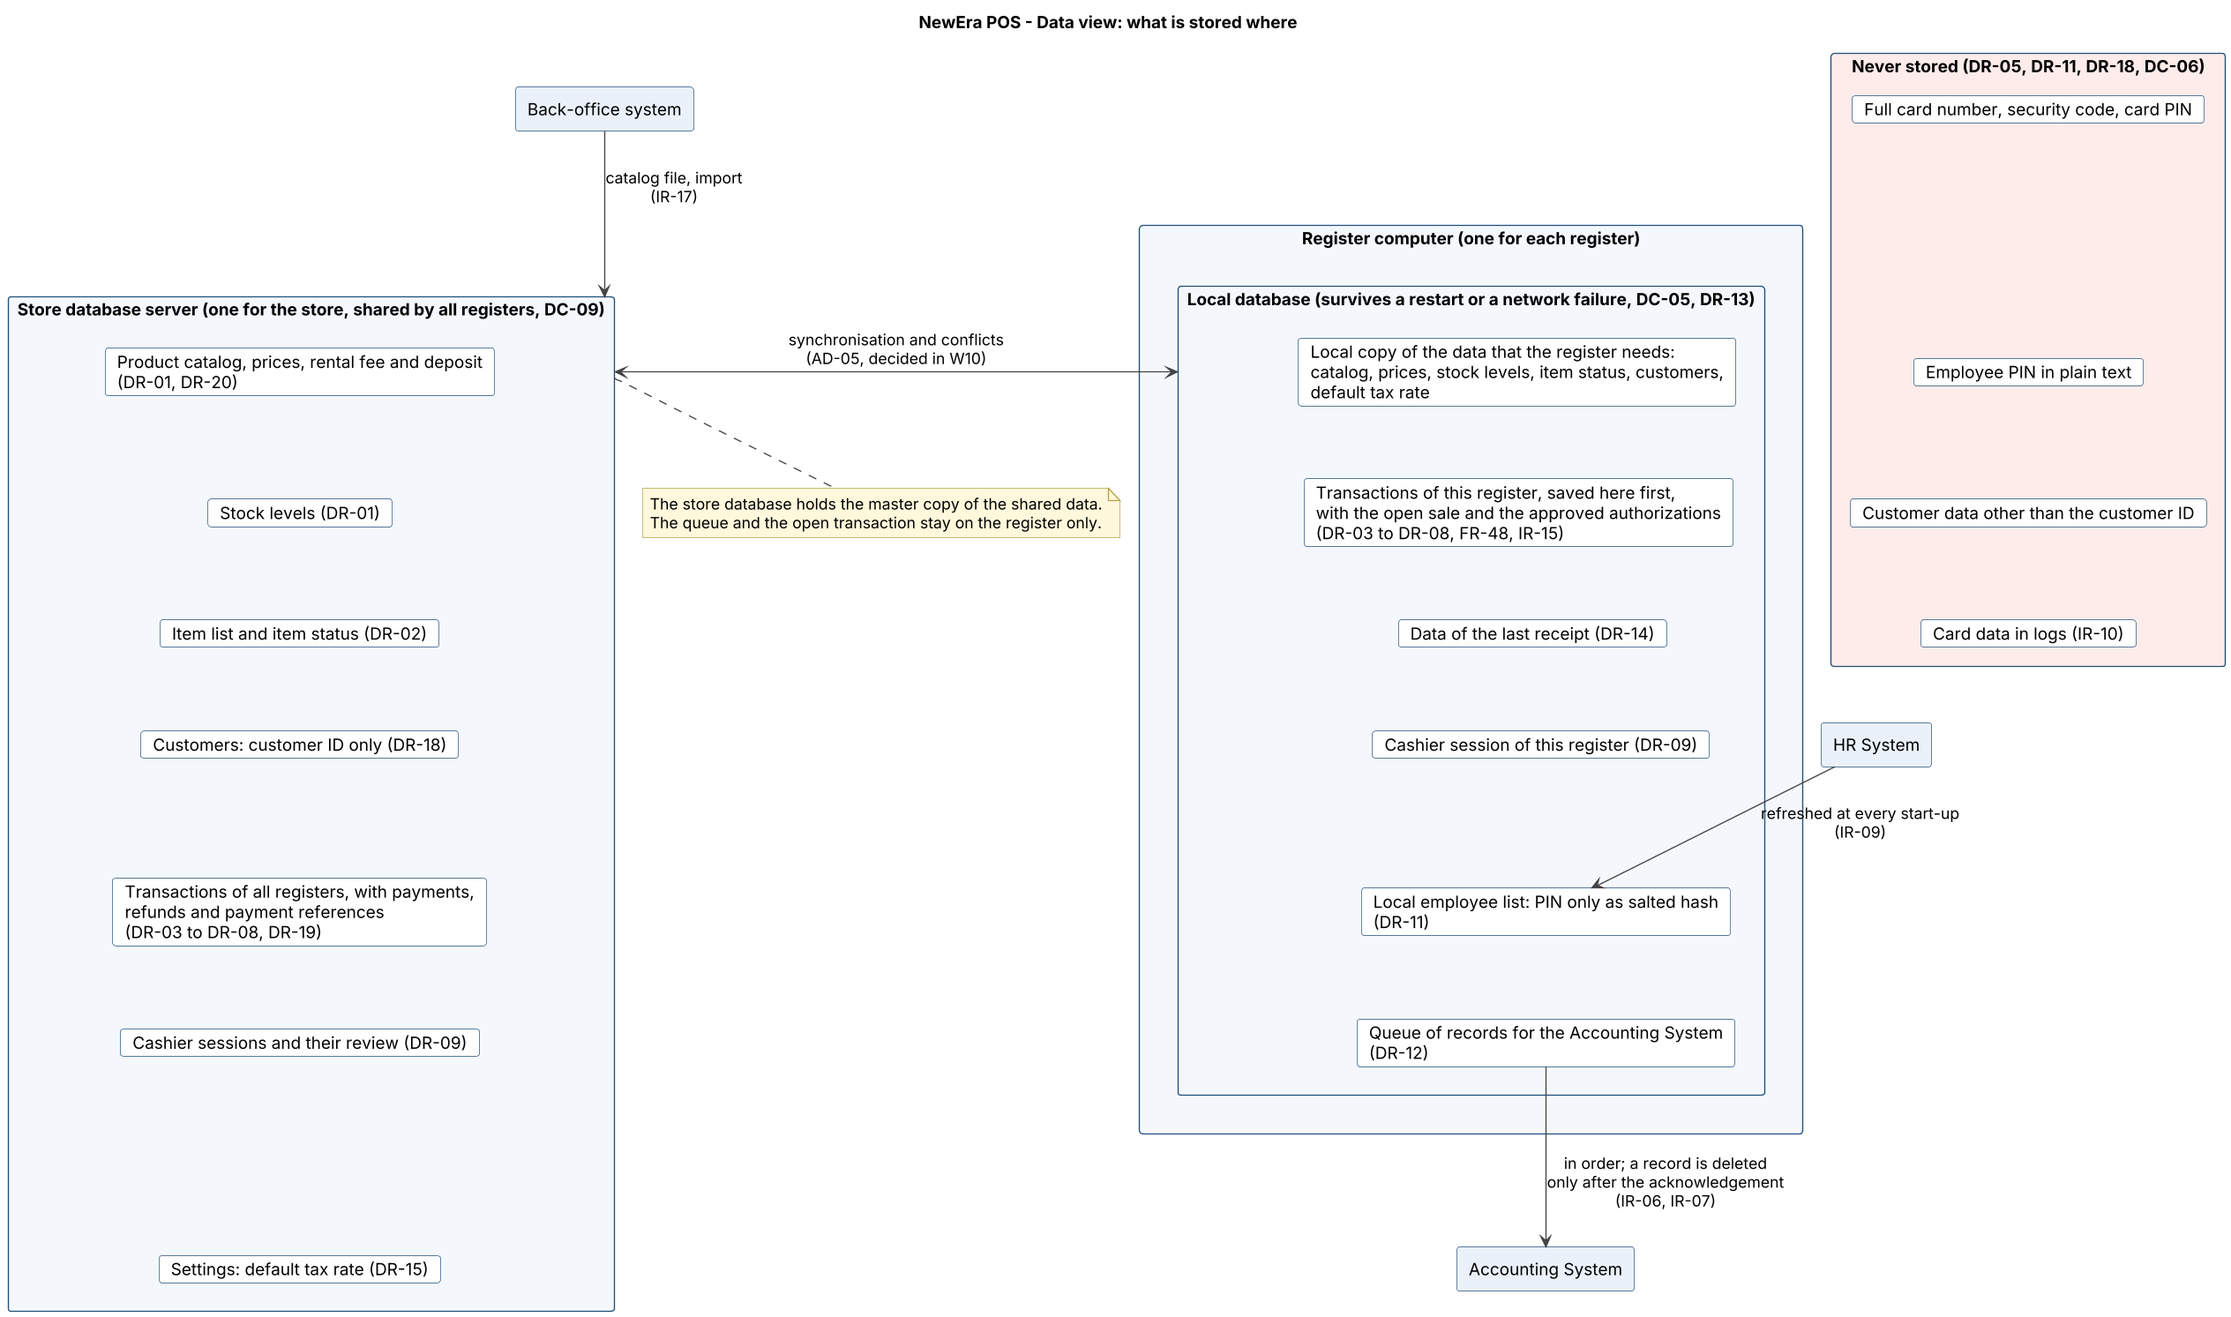
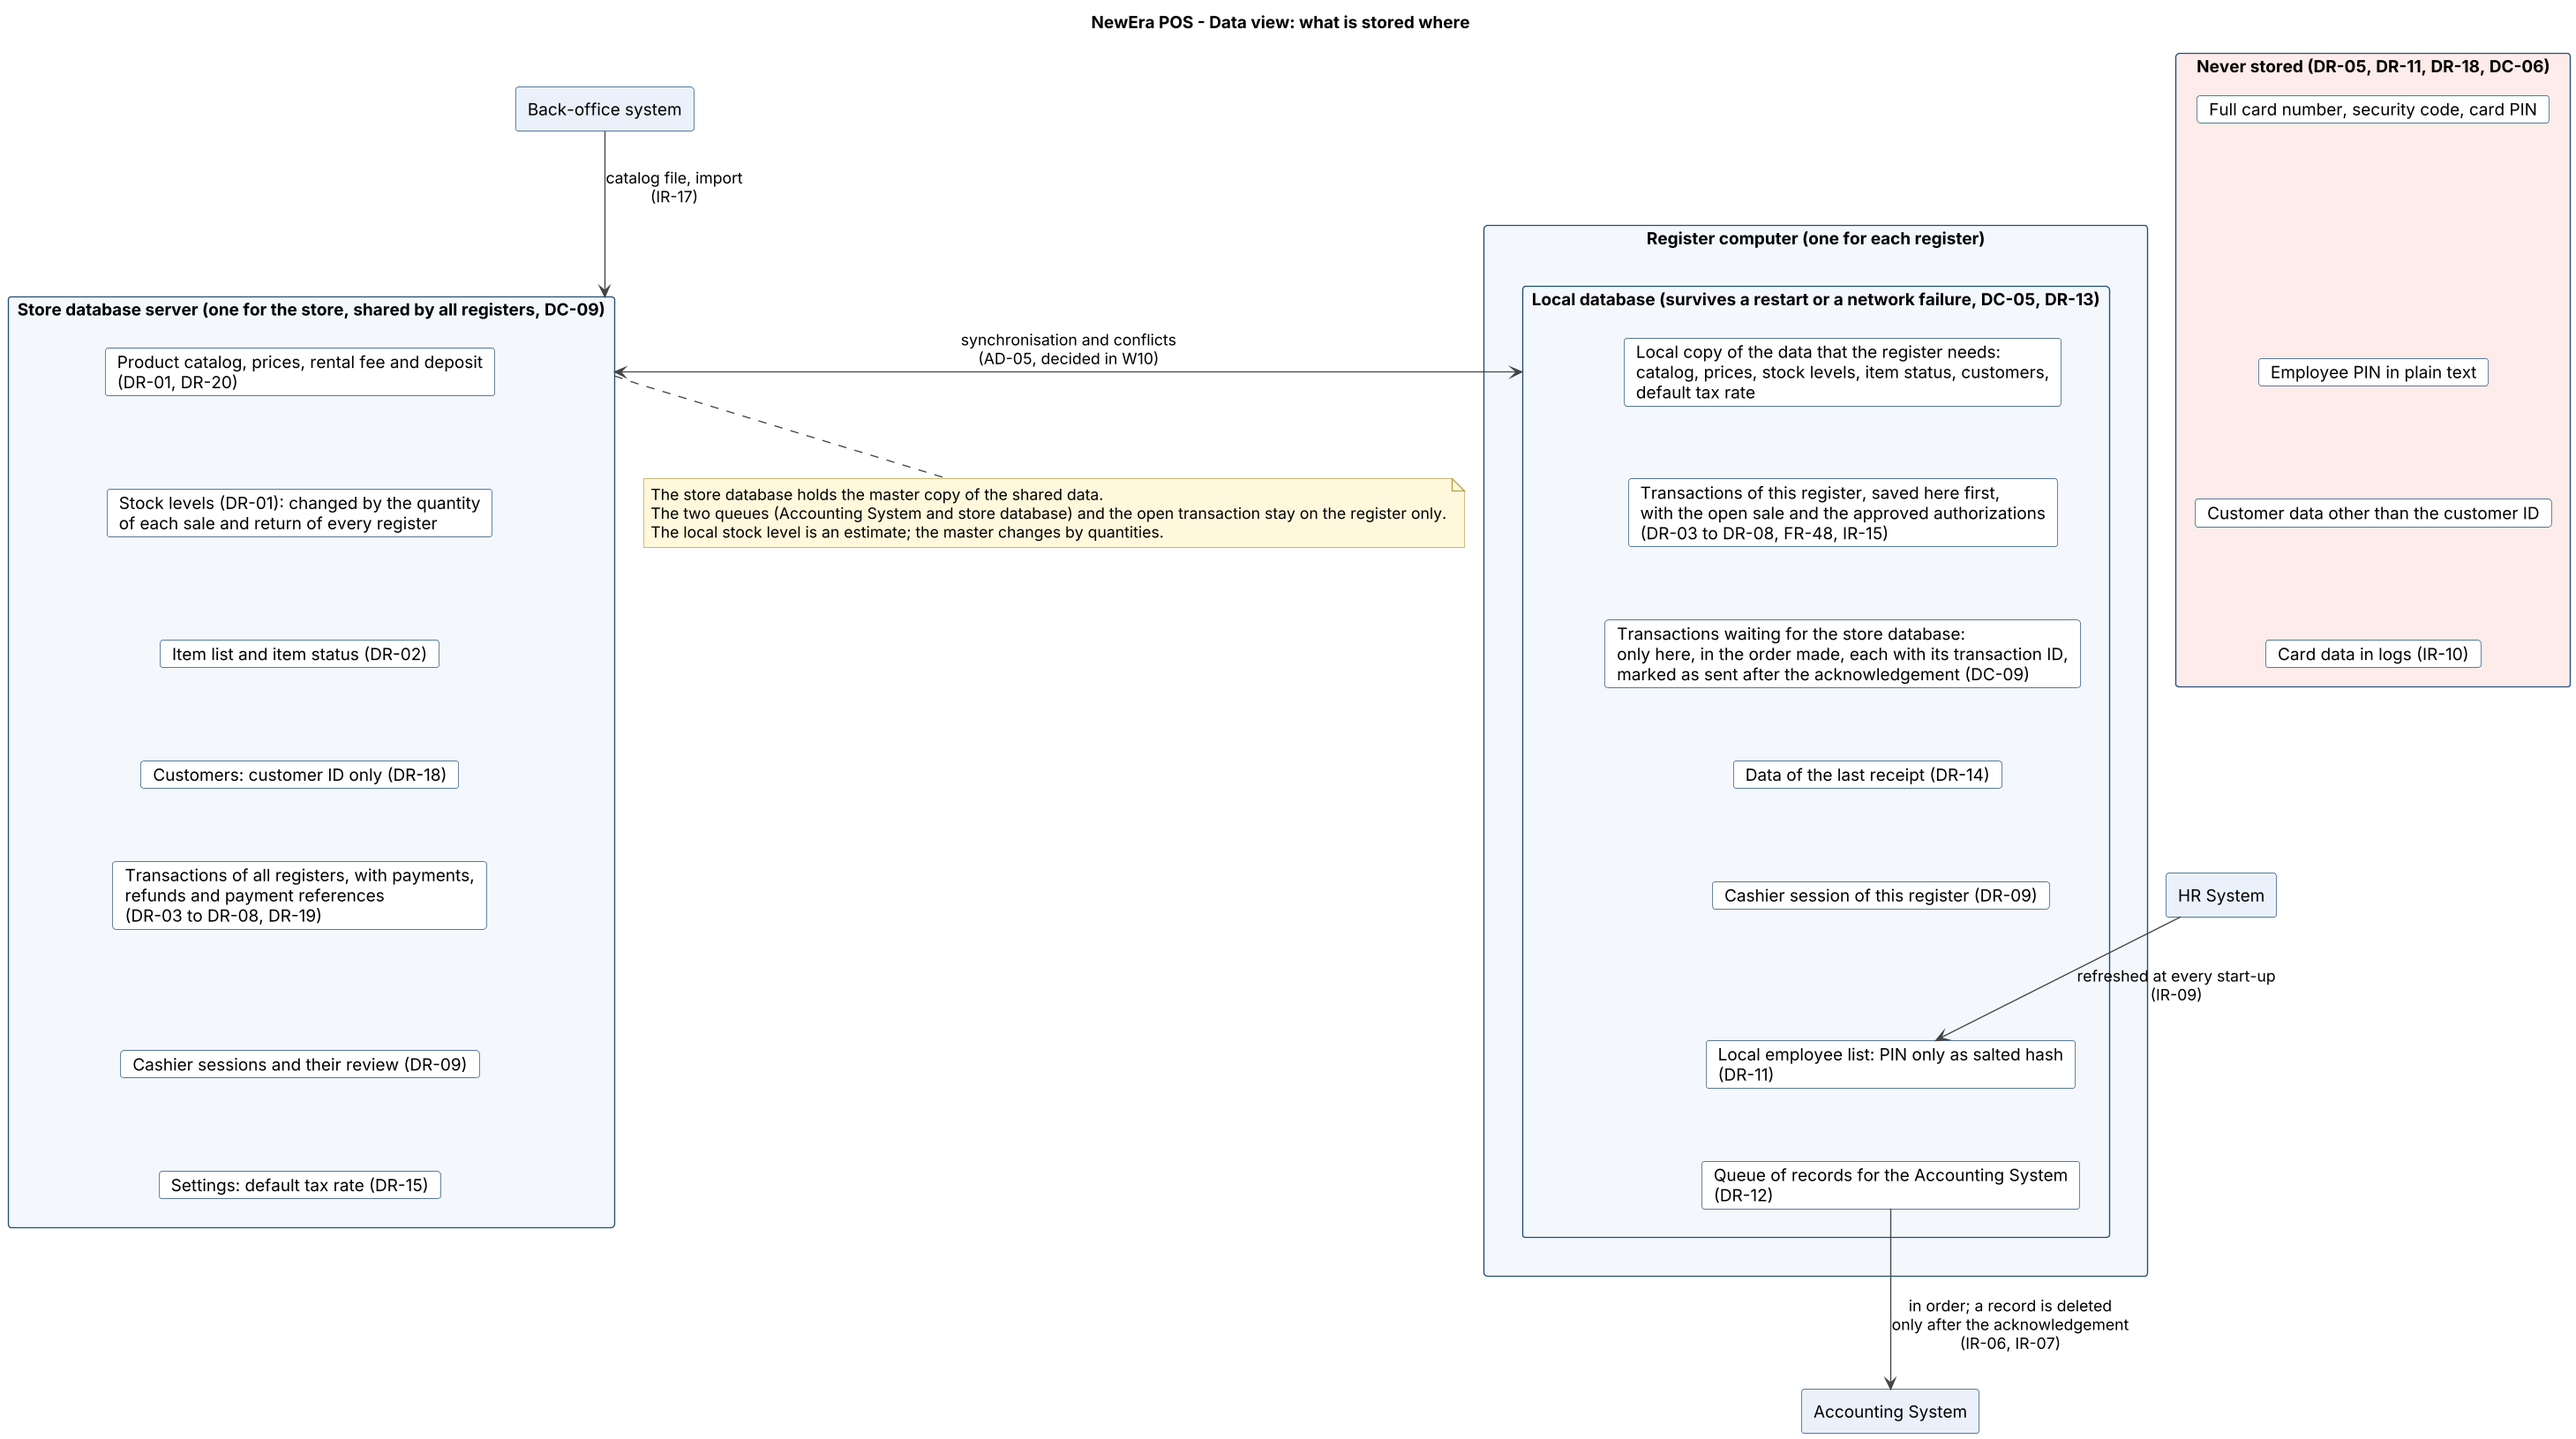
W9 - Architecture; data view revised: stock changed by quantities, list of transactions waiting for the store database (#52, comments 1 and 2)

diff --git a/docs/design/architecture.md b/docs/design/architecture.md
@@ -226,16 +226,23 @@ The **master copy** of a data item is the place where its value is decided; the 
 | Data (SRS §3.5)                                                                                                   | Store database server (shared by all registers)                                     | Local database of each register                                                                            | Source                                            |
 | ----------------------------------------------------------------------------------------------------------------- | ----------------------------------------------------------------------------------- | ---------------------------------------------------------------------------------------------------------- | ------------------------------------------------- |
 | Product catalog, prices, rental fee and deposit                                                                   | Master copy. The catalog comes from the back-office file (IR-17)                    | Copy of what the register needs, to sell without the network                                               | DR-01, DR-20, DC-09, IR-17                        |
-| Stock levels                                                                                                      | Master copy                                                                         | Copy; a sale reduces the local value at once                                                               | DR-01, BR-09, DC-09                               |
+| Stock levels                                                                                                      | Master copy, changed by the quantity of each sale and return (see below)            | Estimate; a sale reduces the local value at once (see below)                                               | DR-01, BR-09, DC-09                               |
 | Item list and item status                                                                                         | Master copy: an item must not be rented at two registers at the same time           | Copy of the last known status                                                                              | DR-02, BR-11, DC-09                               |
 | Customers (customer ID only)                                                                                      | Master copy: customer IDs are unique in the whole store                             | Copy of the customers the register needs, for the overdue check                                            | DR-18, BR-12, DC-09                               |
 | Transactions (sales, returns, rentals, rental returns) with their lines, payments, refunds and payment references | All transactions of all registers, so that a return can be made at another register | The transactions of this register, **saved here first**; the open sale and the approved authorizations too | DR-03 to DR-08, DR-13, DR-19, FR-48, IR-15, DC-05 |
+| Transactions waiting for the store database                                                                       | – (it only receives them and ignores a transaction ID that it already has)          | **Only here**, in the order made, each with its transaction ID; marked as sent after the acknowledgement   | DR-03, DR-13, DC-09                               |
 | Data of the last receipt                                                                                          | –                                                                                   | Yes, to print it again                                                                                     | DR-14, FR-17                                      |
 | Cashier sessions                                                                                                  | A copy, so that a store manager can review a session (FR-74, FR-75)                 | The session of this register (at most one open)                                                            | DR-09                                             |
 | Employee list                                                                                                     | – (the HR System is the master)                                                     | Copy of the HR System, refreshed at every start-up; the PIN only as a salted hash                          | DR-11, IR-09                                      |
 | Settings (default tax rate, reorder threshold)                                                                    | Master copy; only a store manager changes it                                        | Copy                                                                                                       | DR-15, BR-02, BR-04                               |
 | Queue of records for the Accounting System                                                                        | – (it never goes to the store database)                                             | **Only here**, in the order of the transactions; a record is deleted after the acknowledgement             | DR-12, IR-06, IR-07, DC-05                        |
 | Log of failed communications                                                                                      | –                                                                                   | Yes, without card data or other personal data                                                              | IR-10                                             |
+
+**Stock levels and transactions for the store database** (review #52, Josué)
+
+- The master stock level is changed by the **quantity** of each sale and return that a register sends, not by the stock value of the register. Two registers that sell the same product between two synchronisations therefore do not overwrite each other's sales.
+- The local stock level is an **estimate**. It decides the reorder flag (FR-14) and the stock set to zero with the missing quantity recorded (FR-19) at the register, and it is refreshed at start-up and when the connection is back. A difference found at the synchronisation is recorded for the store manager.
+- The **list of transactions waiting for the store database** is not the queue for the Accounting System: that queue never goes to the store database and its records are deleted after the acknowledgement (DR-12). A transaction stays in the list until the store database has acknowledged it. The store database ignores a transaction ID that it already has, so a transaction sent twice after a lost acknowledgement is stored once.
 
 **What is never stored** (DR-05, DR-11, DR-18, DC-06, NFR-08, NFR-11)
 
@@ -251,15 +258,16 @@ The **master copy** of a data item is the place where its value is decided; the 
 | Event                                   | Result                                                                                                                                                                                                                   |
 | --------------------------------------- | ------------------------------------------------------------------------------------------------------------------------------------------------------------------------------------------------------------------------ |
 | Restart or crash of the register        | The local database keeps the transactions, the open sale, the approved authorizations and the queue (DR-13, FR-48). The cashier logs in again, and every authorization without a completed transaction is voided (IR-15) |
-| Network or store database not available | The register works with its local copy and its queue (DC-09). The transactions are sent to the store database when the connection is back                                                                                |
+| Network or store database not available | The register works with its local copy and its queue (DC-09). The transactions wait in the list for the store database and are sent in order when the connection is back                                                                                |
 | An external system not available        | The adapter applies the fallback of SRS §3.1.3; the records for the Accounting System wait in the queue (IR-07)                                                                                                          |
 
 **Open points of this view**
 
-1. **How the copies are kept up to date and how conflicts are solved** (stock levels that differ, an item rented at two registers while both are offline, customers registered twice) is decided in **AD-05** (W10, Borja), together with SRS open questions 6 and 8.
-2. **Receipt numbers and customer IDs** must be unique in the whole store (DC-09), also when a register is offline. A proposal for AD-05 is that each register builds the number from its register ID and its own counter.
+1. **How the copies are kept up to date and how conflicts are solved** (an item rented at two registers while both are offline, customers registered twice, how a difference of stock levels is recorded) is decided in **AD-05** (W10, Borja), together with SRS open questions 6 and 8. The rule that the stock level is changed by quantities and not by values is already fixed in this view.
+2. **Receipt numbers, transaction IDs and customer IDs** must be unique in the whole store (DC-09), also when a register is offline. A proposal for AD-05 is that each register builds the number from its register ID and its own counter.
 3. **Retention.** How long the transactions and the accounting records are kept after they have been sent is open (SRS §3.5, open question 8, Borja, W10); it decides the size of the local database.
 4. **Where the catalog import is stored** (IR-17): the import file is read at start-up or by a store manager; whether the register or the store database server imports it is decided in AD-05.
+5. **Return offline of a sale that another register has not sent yet.** The register finds the original sale only in its local database or in the store database. Proposal for AD-05: while the store database is not available and the sale is not in the local database, the register gives the message of UC2 for an unknown receipt number (FR-21) and the cashier tries again when the connection is back. Whether a store manager may approve such a return is a question for the SRS (Alfonso).
 
 ## 5. Correspondences
 
